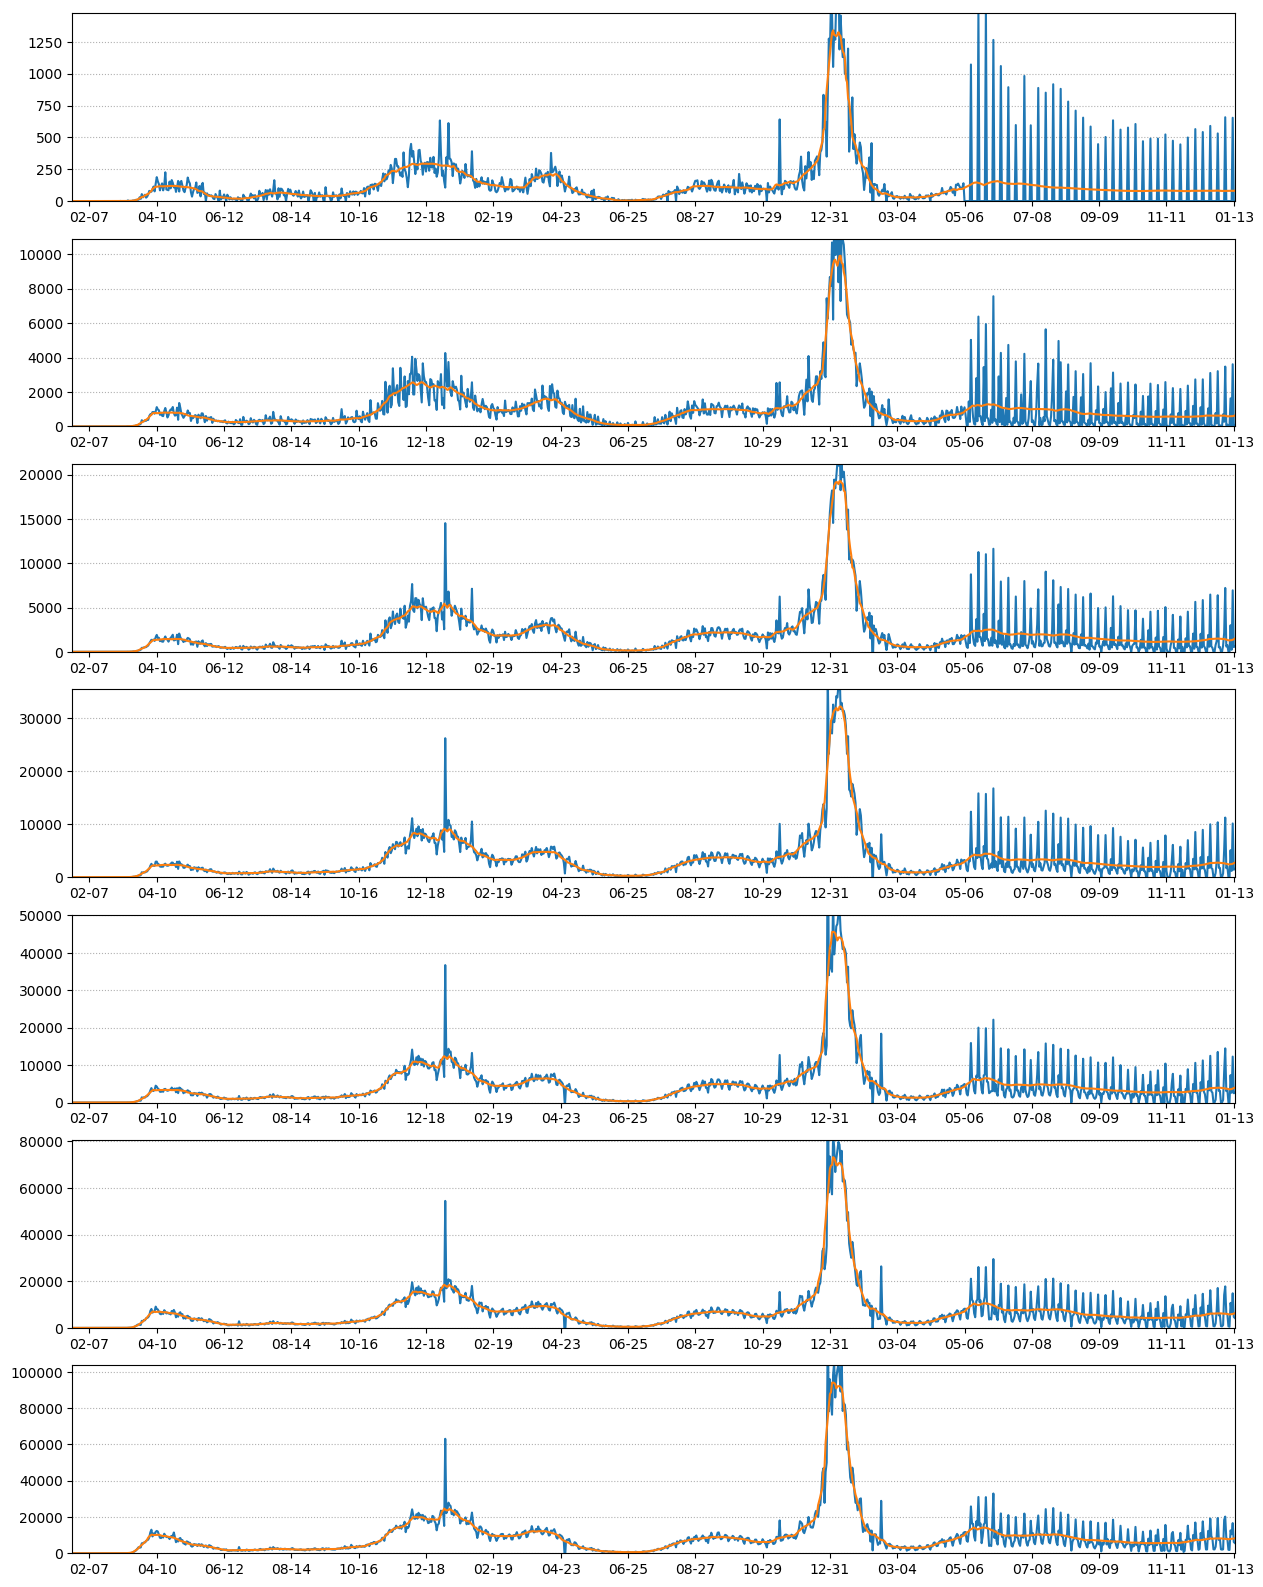
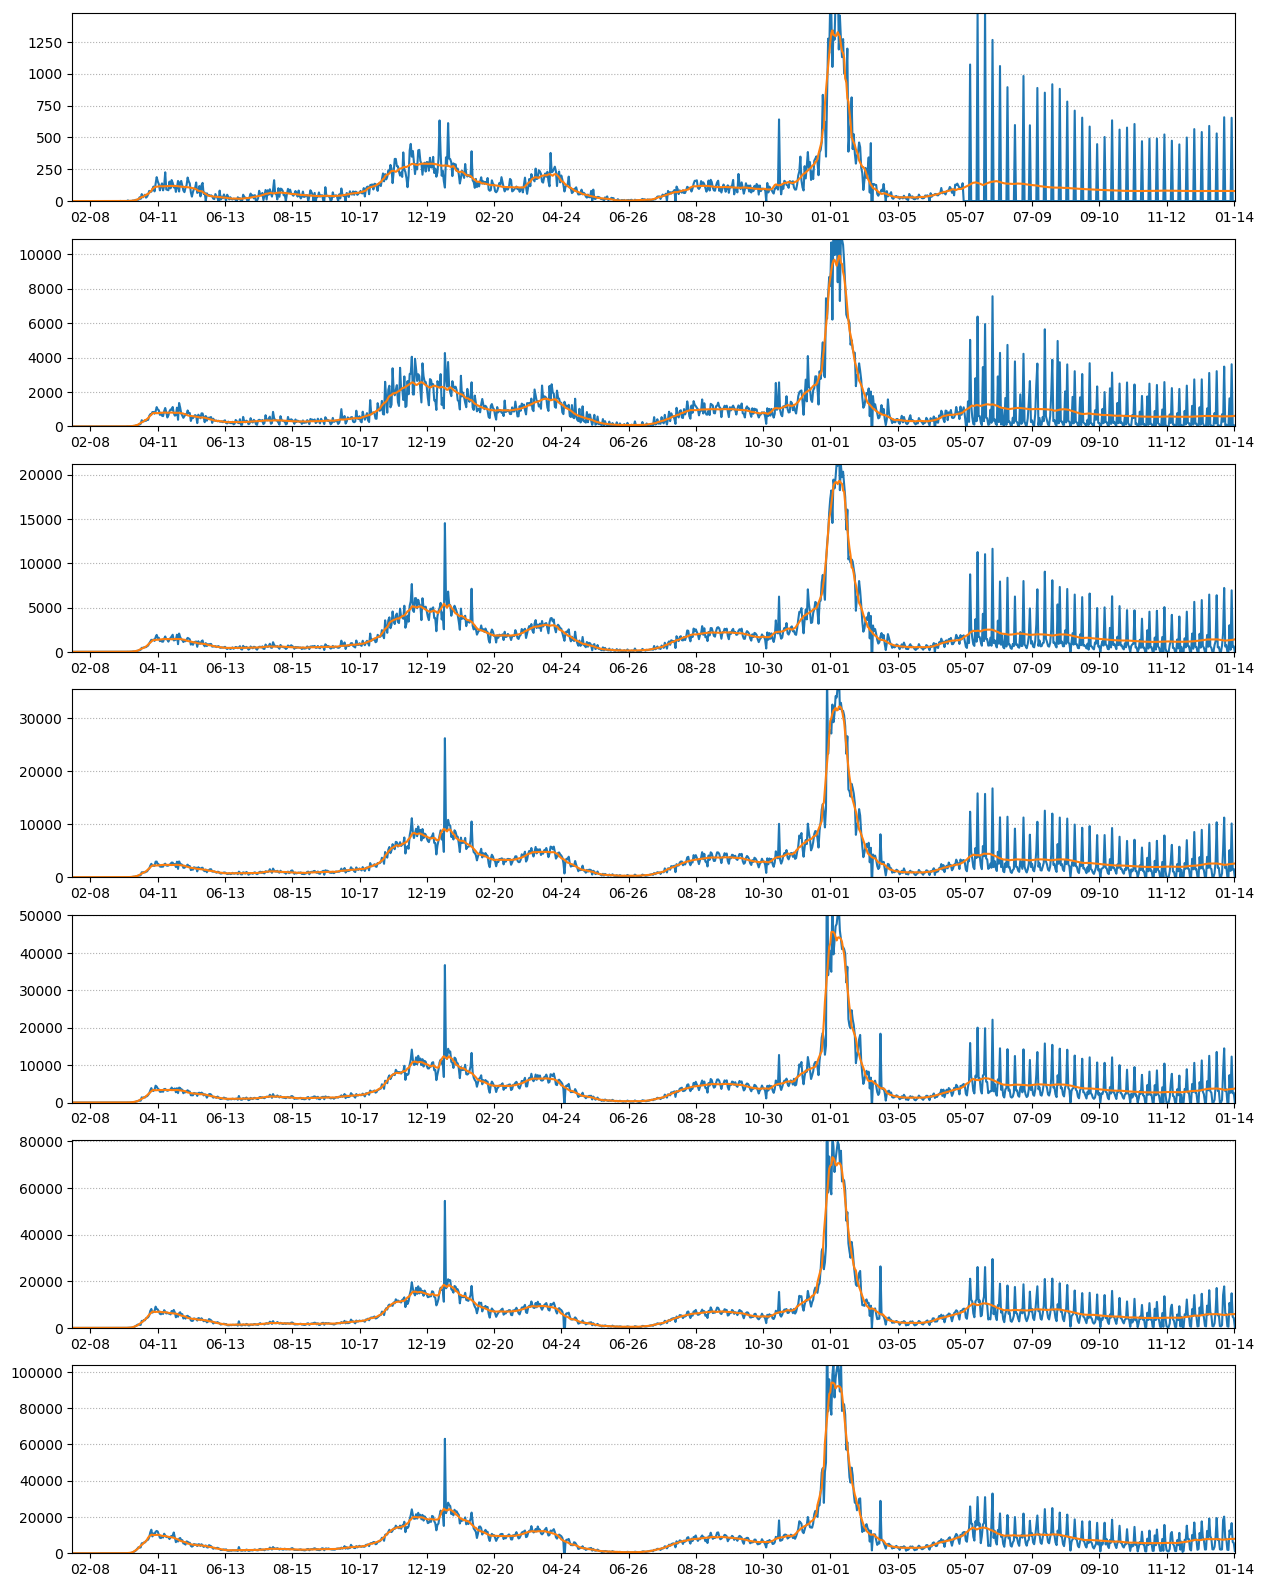
daily forecast

diff --git a/dailymessage.html b/dailymessage.html
@@ -1,46 +1,46 @@
 Delaware County COVID-19 Monitor<br>
-as of 2023-01-13<br>
+as of 2023-01-14<br>
 <table border="1" cellspacing="5" cellpadding="3">
 <tr>
 <td>0</td>
-<td>82</td>
+<td>79</td>
 <td>566747</td>
-<td>14.4</td>
+<td>13.9</td>
 </tr>
 <tr>
 <td>1</td>
-<td>637</td>
+<td>614</td>
 <td>4357104</td>
-<td>14.6</td>
+<td>14.0</td>
 </tr>
 <tr>
 <td>2</td>
-<td>1492</td>
+<td>1405</td>
 <td>8052045</td>
-<td>18.5</td>
+<td>17.4</td>
 </tr>
 <tr>
 <td>3</td>
-<td>2736</td>
+<td>2574</td>
 <td>13327166</td>
-<td>20.5</td>
+<td>19.3</td>
 </tr>
 <tr>
 <td>4</td>
-<td>3980</td>
+<td>3745</td>
 <td>18498878</td>
-<td>21.5</td>
+<td>20.2</td>
 </tr>
 <tr>
 <td>5</td>
-<td>6262</td>
+<td>5938</td>
 <td>27240755</td>
-<td>22.9</td>
+<td>21.7</td>
 </tr>
 <tr>
 <td>6</td>
-<td>8215</td>
+<td>7973</td>
 <td>34871340</td>
-<td>23.5</td>
+<td>22.8</td>
 </tr>
 </table>
